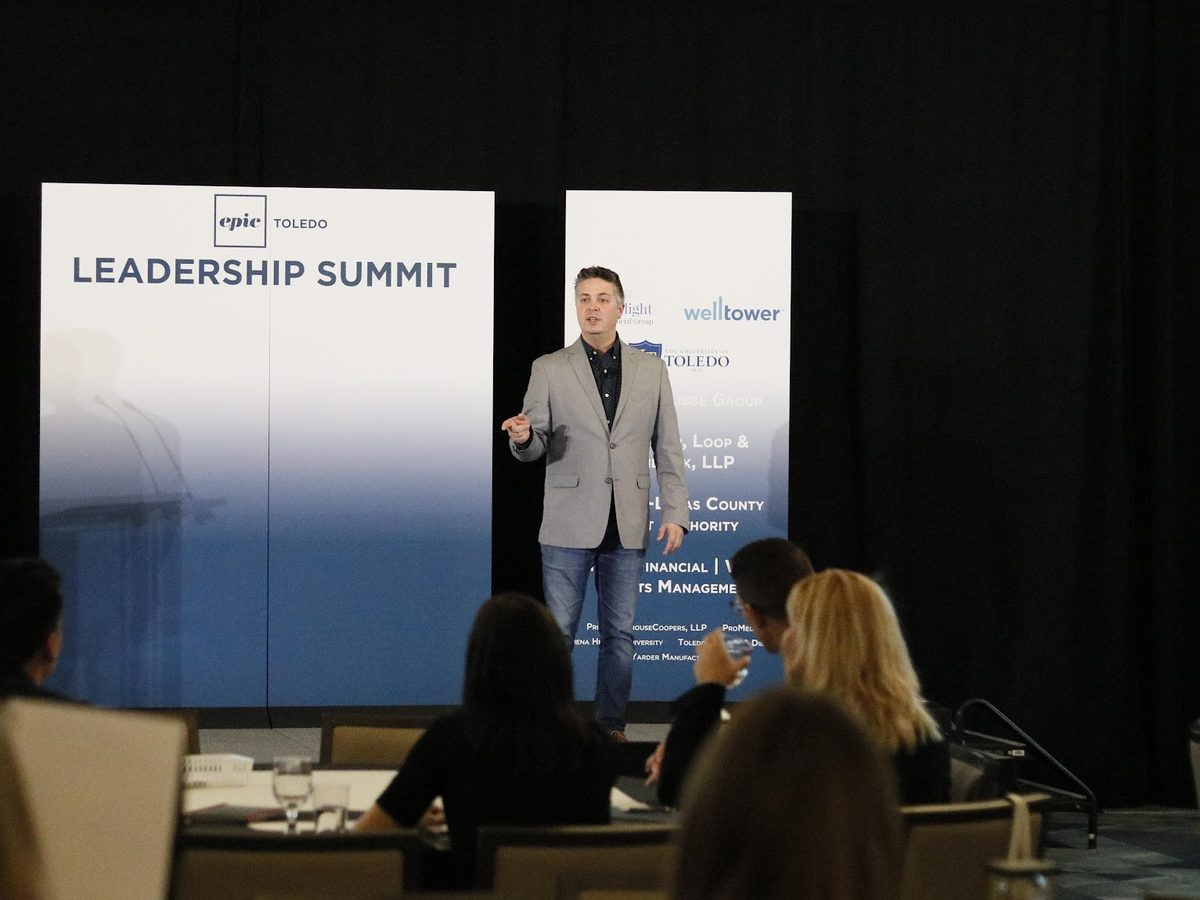
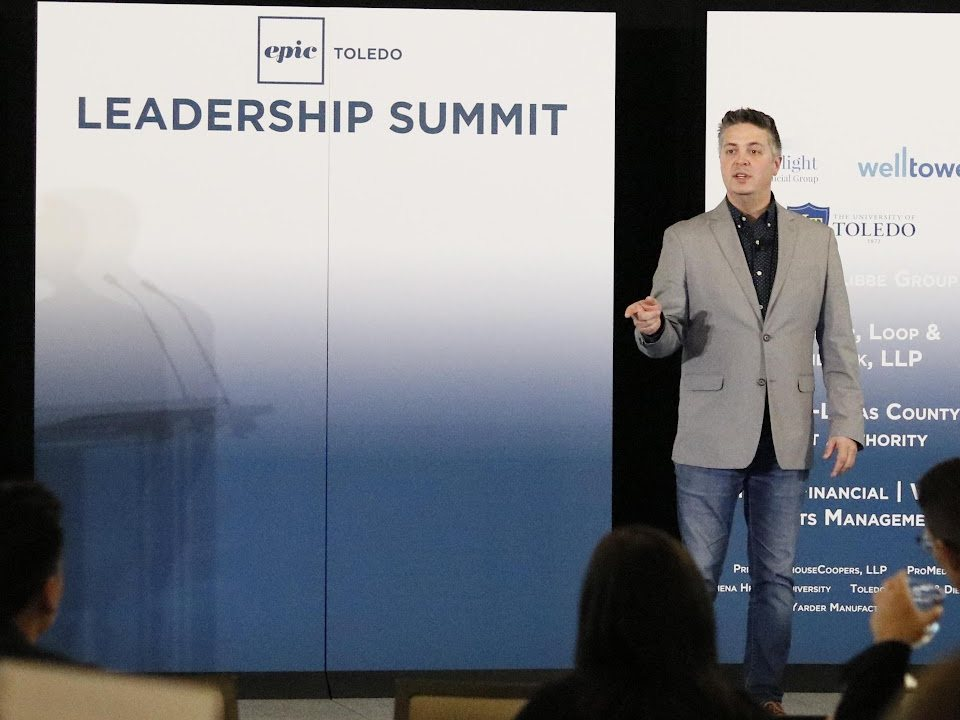
Crop the Epic Toledo stage photo tighter
Claude-Session: https://claude.ai/code/session_012mK11ABvh4wxJjzrmRjuuL

diff --git a/index.html b/index.html
@@ -143,7 +143,7 @@
       <div>
         <div class="section-head"><h2>Recent talks</h2><a href="talks.html">All talks and slides</a></div>
         <figure class="inline-fig">
-          <img src="img/epic-toledo-stage.jpg" width="1200" height="900" alt="Jerry Schnepp speaking on stage in front of an Epic Toledo Leadership Summit backdrop, with audience members in the foreground." loading="lazy">
+          <img src="img/epic-toledo-stage.jpg" width="960" height="720" alt="Jerry Schnepp speaking on stage in front of an Epic Toledo Leadership Summit backdrop, with audience members in the foreground." loading="lazy">
           <figcaption>Speaking at the Epic Toledo Leadership Summit</figcaption>
         </figure>
         <ul class="dated">
